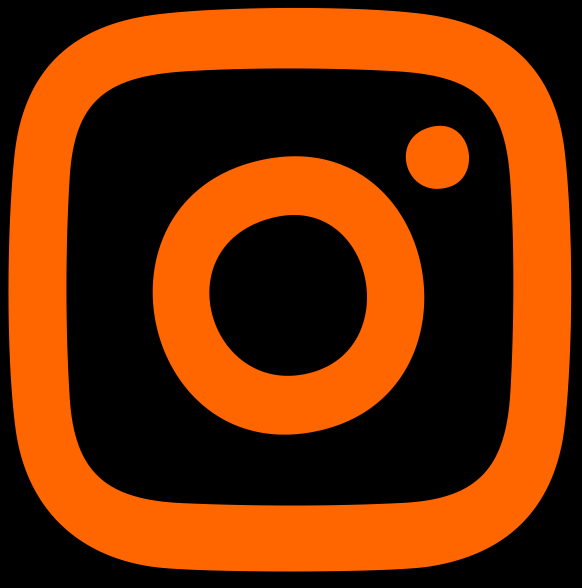
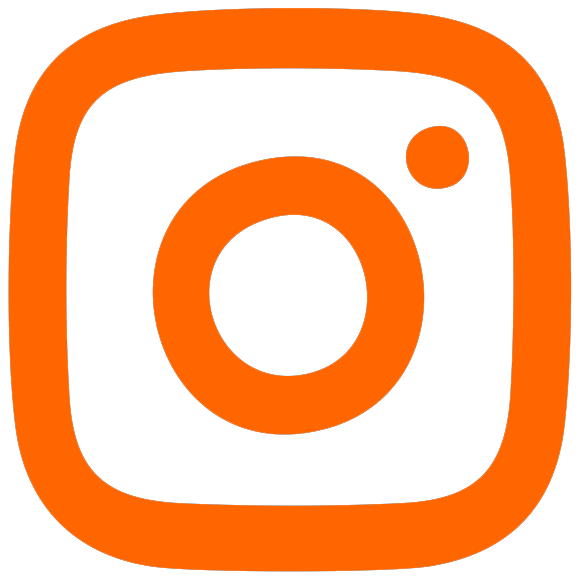
ajuste na imagem instagram

diff --git a/style.css b/style.css
@@ -92,8 +92,8 @@ img {
 
 .instagram {
     border: 3px solid #fb7602;
+    background-color: aliceblue;
     color: #fb7602;
-    /*background-color: black;*/
     border-radius: 10px;
     padding: 15px 0;
     width: 300px;
@@ -128,15 +128,15 @@ img {
     margin-top: 10px;
 }
 
-.instagram:hover {
-    background-color: rgb(34, 35, 35);
+/*.instagram:hover {
+    background-color: rgb(221, 239, 239);
     transition: 0.7s;
-}
+}*/
 
-.whatsapp:hover {
+/*.whatsapp:hover {
     background-color: rgb(34, 35, 35);
     transition: 0.7s;
-}
+}*/
 
 .rodape {
     color: aliceblue;
